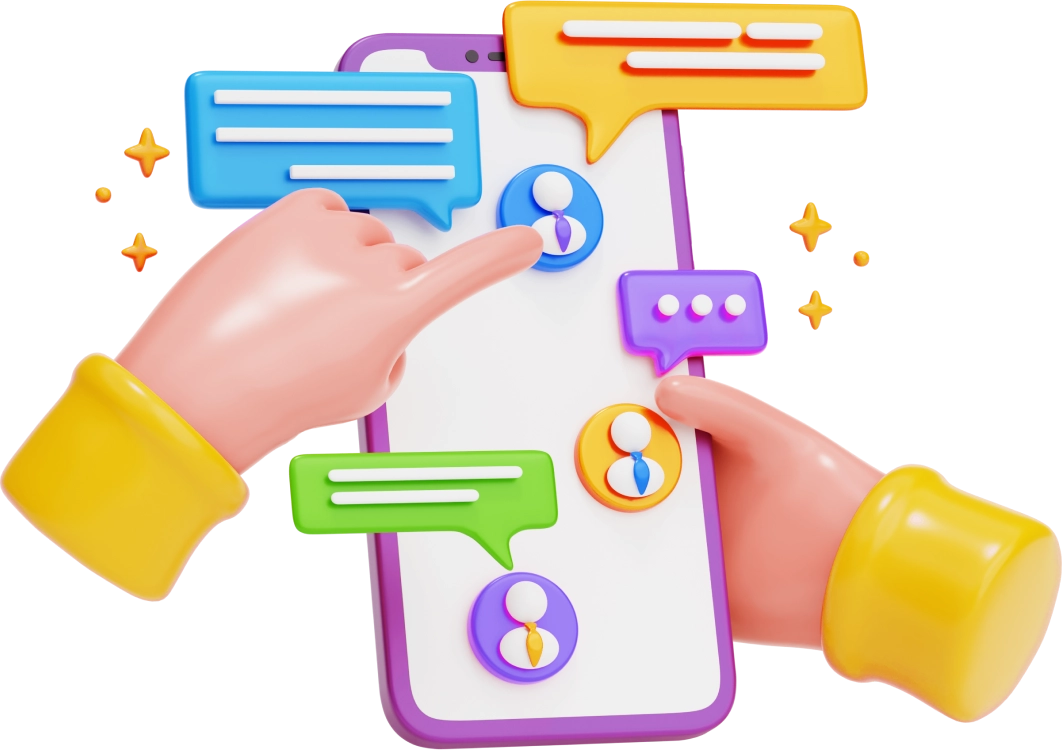
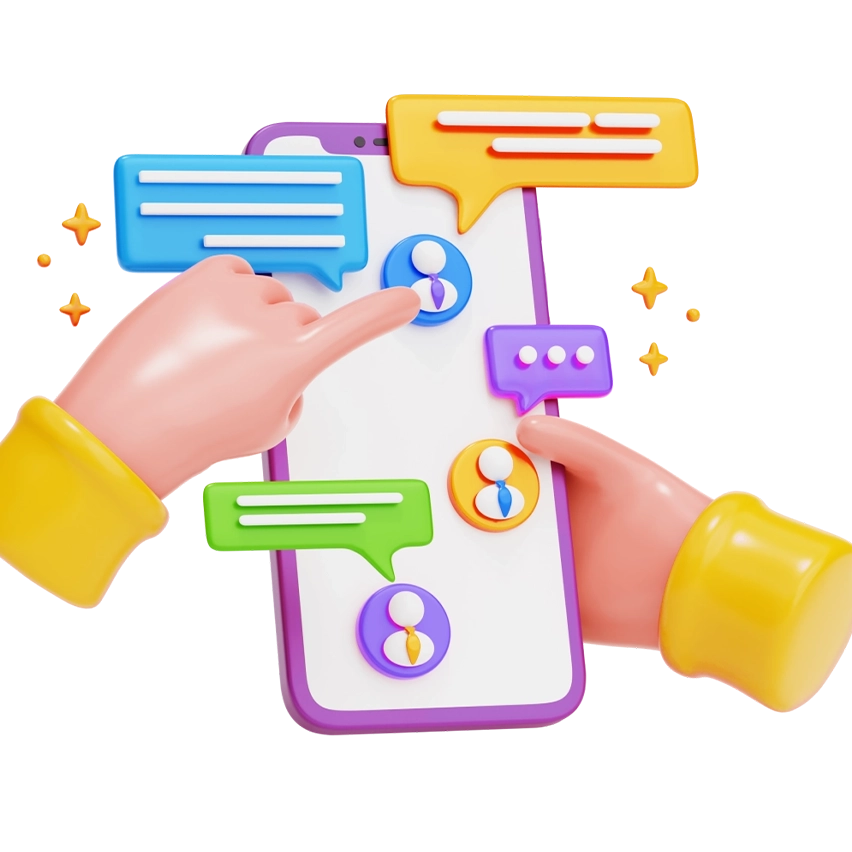
update static landing 2

diff --git a/src/templates/service/site.html b/src/templates/service/site.html
@@ -16,7 +16,7 @@
                     <span>Boostilo</span><br />
                     <span>Web Design</span>
                    </div>
-                   <p class="text-white text-sm md:text-lg mt-5">adipisicing elit. Expedita pariaturLorem ipsum dolor sit amet consectetur adipisicing elit. Expedita pariatur deleniti aut dolor quos porro, doloremque, aperiam, aliquam dicta repellendus ipsam similique omnis! Doloribus ratione, mollitia illo tempora quibusdam maiores!</p>
+                   <p class="text-white text-sm md:text-lg mt-5">Still unsure about your website? Review your personalized mockup first, then decide with confidence! </p>
                    <div class="flex gap-2 mt-5 ">
                     <button class="btn-gradient-purple">
                         <a href="{% url 'service:service_portfolios' service_name=web_dev.name %}">
@@ -24,7 +24,7 @@
                         </a>
                     </button>
                     <button class="btn-transparent">
-                        <a href="#">
+                        <a href="https://boostilo.ca/service/web/##contactus">
                            contact us
                         </a>
                     </button>
@@ -45,15 +45,17 @@
                         <span>Development</span><br>
                         <span>web</span>
                     </div>
+                    <div class="mt-2 text-sm md:text-base ">
                     <p class="mt-5">
                        Ready to push your business into another league with a class-leading website?
                     </p>
                     <p class="mt-2">
                      At Boostilo, we don't just build websites; we create unique, high-security, search engine-optimized, and fast-loading ones using cutting-edge technologies. Your site will load instantly, stay secure, and deliver an enjoyable browsing experience. Our responsive designs ensure it adapts perfectly across all devices—desktop, tablet, and mobile. With intuitive content management platforms, we fine-tune every detail to capture more traffic and provide a smooth user experience.
                     </p>
+                 </div>
                 </div>
-                <div class="w-full md:w-2/5 p-4">
-                    <img src="{% static 'public/images/webdesigning.webp' %}" alt="">
+                <div class="w-full md:w-2/5 p-4 flex justify-center items-center">
+                    <img src="{% static 'public/images/web-designing.webp' %}" alt=""  class="w-[50%] md:w-[70%]">
                 </div>
             </div>
         </div>
@@ -62,14 +64,16 @@
        <section class="service-item individual-item">
         <div class="container p-2 md:px-10">
             <div class="flex  flex-wrap">
-                <div class="w-full md:w-2/5 p-4">
-                    <img src="{% static 'public/images/webdesigncompany.webp' %}" alt="">
+                <div class="w-full md:w-2/5 p-4 flex justify-center items-center">
+                    <img src="{% static 'public/images/web-design-company.webp' %}" alt=""  class="w-[50%] md:w-[70%]">
                 </div>
                 <div class="w-full md:w-3/5 p-4 flex justify-center flex-col">
+                    <div class="mt-2 text-sm md:text-base ">
                     <p class="mt-5">From simple to complex, Boostilo does not limit the services it offers ! We go all the way and beyond with a strong Sales Map, where each stage of the customer journey is tailor-made to suit your clients' needs and ensure maximum conversion. Plus, before making any commitment, you'll get a free, custom-designed, personalized preview to make sure we meet your exact needs.</p>
                     <p class="mt-2">
                      Try Boostilo today and enjoy your free preview to see what's possible. You deserve a choice you can trust!
                     </p>
+                </div>
                 </div>
             </div>
         </div>

diff --git a/src/templates/service/application.html b/src/templates/service/application.html
@@ -51,11 +51,13 @@
                         <span>Design</span><br>
                         <span>Application</span>
                     </div>
+                    <div class="mt-2 text-sm md:text-base ">
                     <p class="mt-5">Looking to create a professional, high-quality app? Boosilo is your ultimate partner for turning your vision into reality.</p>
                     <p class="mt-2">With Boostilo, you'll get easy access inside your custom app: fast loading, easy installation to homescreen and autonomy from stores. Plus, stay connected and keep your content fresh with the push notifications and automatic updates, while maintaining a professional and high-quality experience.</p>
+                   </div>
                 </div>
-                <div class="w-full md:w-2/5 p-4">
-                    <img src="{% static 'public/images/app-designing.webp' %}" alt="">
+                <div class="w-full md:w-2/5 p-4 flex justify-center items-center">
+                    <img src="{% static 'public/images/app-designing.webp' %}" alt="" class="w-[50%] md:w-[70%]">
                 </div>
             </div>
         </div>
@@ -64,16 +66,18 @@
        <section class="service-item individual-item">
         <div class="container p-2 md:px-10">
             <div class="flex  flex-wrap">
-                <div class="w-full md:w-2/5 p-4">
-                    <img src="{% static 'public/images/ChatRoomAppDesign.webp' %}" alt="">
+                <div class="w-full md:w-2/5 p-4 flex justify-center items-center">
+                    <img src="{% static 'public/images/ChatRoomAppDesign.webp' %}" alt="" class="w-[50%] md:w-[70%]">
                 </div>
                 <div class="w-full md:w-3/5 p-4 flex justify-center flex-col">
                     <div class="item-highlight">
                         <span>crafting , sucsess digital</span><br>
                         <span>Boostilo</span>
                     </div>
+                    <div class="mt-2 text-sm md:text-base ">
                     <p class="mt-5">Never out of reach with Boostilo! Our apps run completely optimized offline so that your users will never be disturbed in their experience, whatever the circumstances. Moreover, they run flawlessly on all devices: from mobile and tablet to desktop. With Boostilo, you are always one step ahead.</p>
                     <p class="mt-2">Get in touch with us today and lead the way with Boostilo!</p>
+                    </div>
                 </div>
             </div>
         </div>

diff --git a/src/templates/base/categories_service.html b/src/templates/base/categories_service.html
@@ -11,25 +11,29 @@
                             <span>{{ category.name }}</span><br>
                             <span>{{ category.service.name }}</span>
                         </div>
+                        <div class="mt-2 text-sm md:text-base ">
                         <p class="mt-5 font-xs md:font-base">{{ category.description }}</p>
+                        </div>
                     </div>
-                    <div class="w-full md:w-2/5 h-[280px] md:h-[300px] lg:h-[300px] xl:h-[420px] flex justify-center">
-                        <img src="{{ category.image.url }}" alt="{{ category.name }}" class="w-3/5 md:w-full h-full object-contain">
+                    <div class="w-full md:w-2/5 p-4 flex justify-center items-center">
+                        <img src="{{ category.image.url }}" alt="{{ category.name }}" class="w-[50%] md:w-[70%]">
                     </div>
                 </div>
             </div>
            </section>{% else %} <section class="service-item individual-item">
             <div class="container p-2 md:px-10">
                 <div class="flex  flex-wrap">
-                    <div class="w-full md:w-2/5 h-[280px] md:h-[300px] lg:h-[300px] xl:h-[420px] flex justify-center">
-                        <img src="{{ category.image.url }}" alt="{{ category.name }}" class="w-3/5 md:w-full h-full object-contain">
+                    <div class="w-full md:w-2/5 p-4 flex justify-center items-center">
+                        <img src="{{ category.image.url }}" alt="{{ category.name }}" class="w-[50%] md:w-[70%]">
                     </div>
                     <div class="w-full md:w-3/5 p-4 flex justify-center flex-col">
                         <div class="item-highlight">
                             <span>{{ category.name }}</span><br>
                             <span>{{ category.service.name }}</span>
                         </div>
+                        <div class="mt-2 text-sm md:text-base ">
                         <p class="mt-5">{{ category.description }}</p>
+                       </div>
                     </div>
                 </div>
             </div>

diff --git a/src/templates/service/content-creation.html b/src/templates/service/content-creation.html
@@ -33,7 +33,8 @@
                             </a>
                         </button>
                         <button class="btn-transparent">
-                            <a href="https://boostilo.ca/service/content/#contactus">
+                            <a href="https://boostilo.ca/service/content/
+                            ">
                                contact us
                             </a>
                         </button>
@@ -181,8 +182,8 @@
     <section class="service-item individual-item">
         <div class="container p-2 md:px-10">
             <div class="flex  flex-wrap" id="socialmedia-add">
-                <div class="w-full md:w-2/5 p-4">
-                    <img src="{% static 'public/images/Publishing.webp' %}" alt="">
+                <div class="w-full md:w-2/5 p-4 flex justify-center items-center">
+                    <img src="{% static 'public/images/Publishing.webp' %}" alt="" class="w-[50%] md:w-[70%]>
                 </div>
                 <div class="w-full md:w-3/5 p-4 flex justify-center flex-col">
                     <div class="item-highlight">
@@ -219,8 +220,8 @@
                     </p>
                  </div>
                 </div>
-                <div class="w-full md:w-2/5 p-4">
-                    <img src="{% static 'public/images/marketing.webp' %}" alt="">
+                <div class="w-full md:w-2/5 p-4 flex justify-center items-center">
+                    <img src="{% static 'public/images/marketing.webp' %}" alt="" class="w-[50%] md:w-[70%]>
                 </div>
             </div>
         </div>
